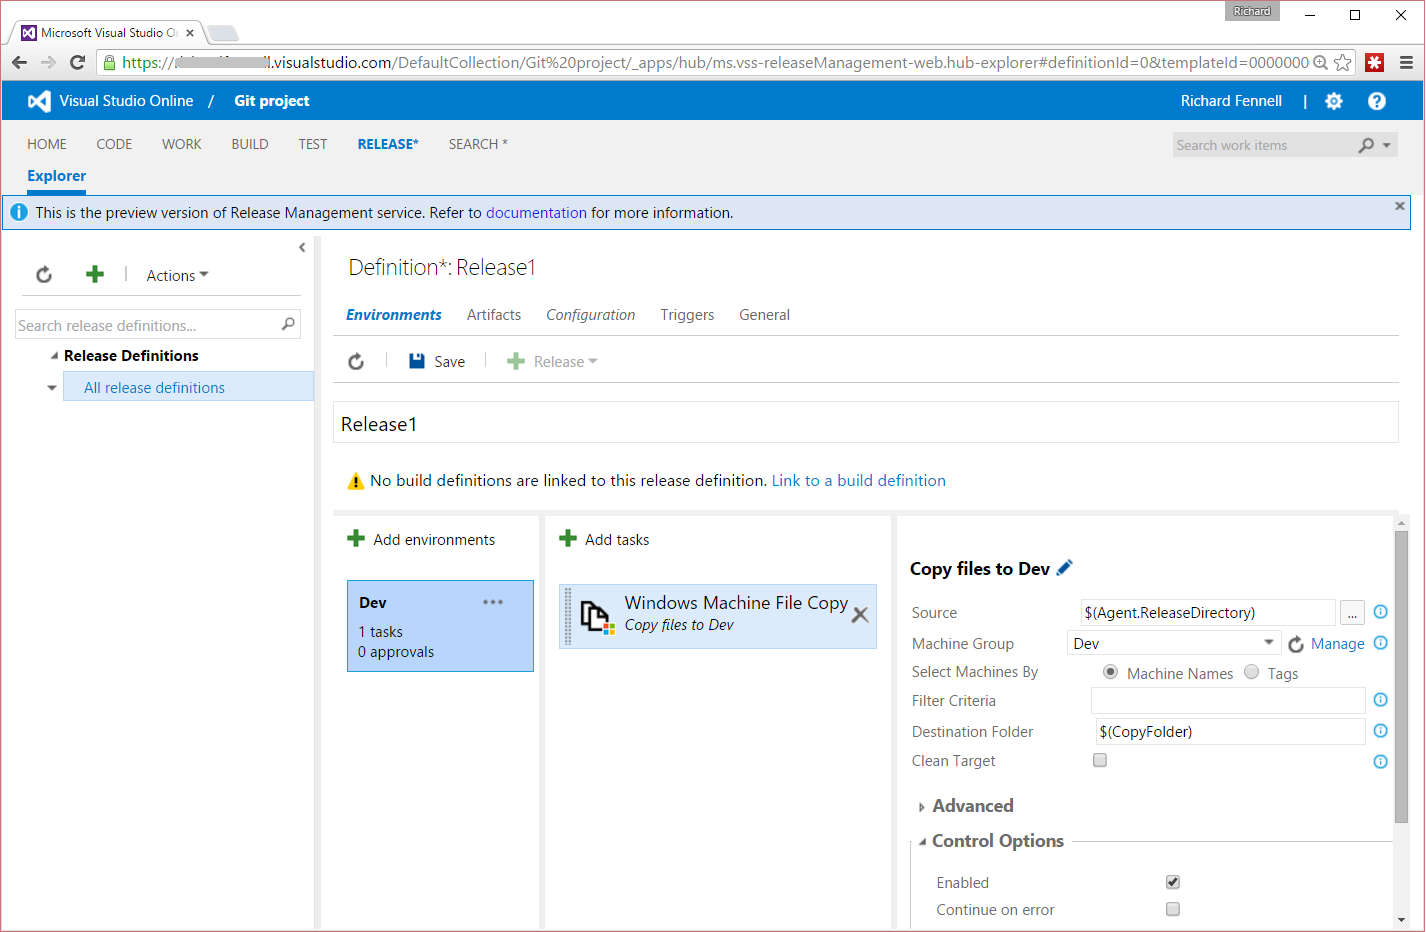
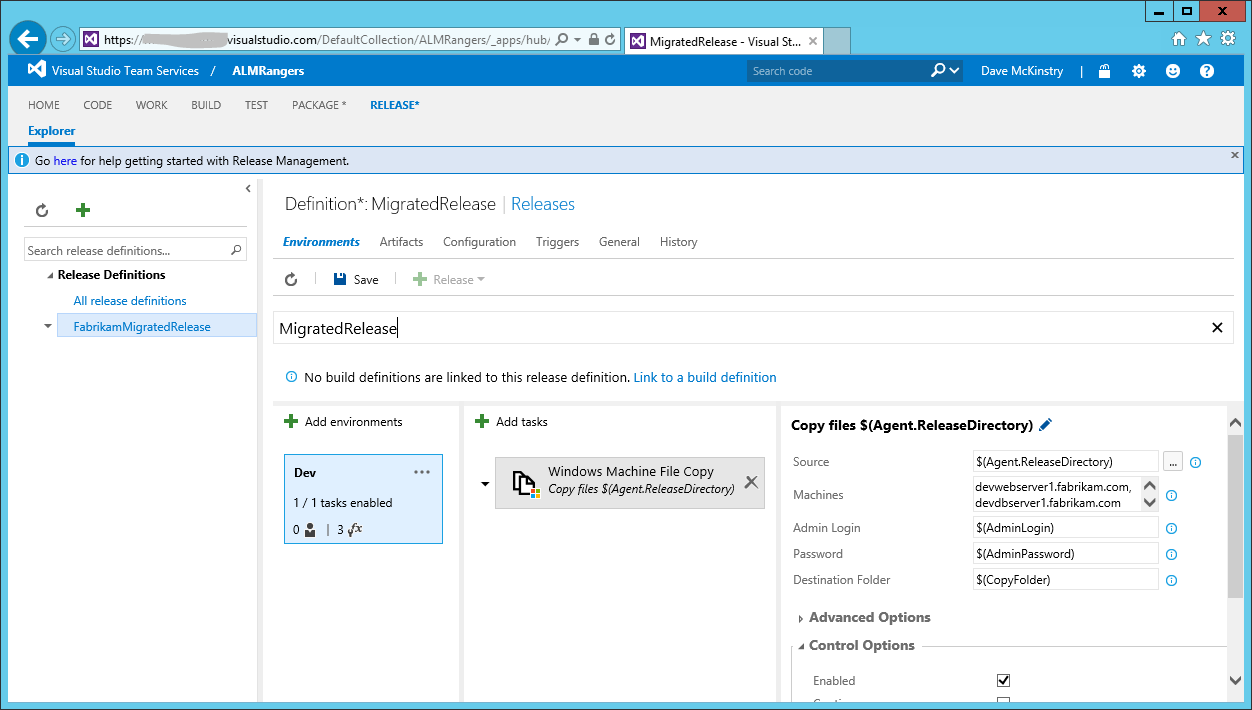
Updated Lab 2 screen caps and content based on current UI.  Primarily involved changing machine groups to machines.

Changed region(s): [[0.0, 0.0, 1.0, 1.0], [0.9034, 0.7746, 0.9345, 0.8056]]

diff --git a/doc/Lab-2-Using-the-resulting-release-scripts-in-a-release-pipeline.md b/doc/Lab-2-Using-the-resulting-release-scripts-in-a-release-pipeline.md
@@ -68,27 +68,27 @@ Once the script artifact, and any others you require for your product, have been
 
     ![Empty Release Definition Screenshot](Images/HOLScreenShot4.png)
 	
-1.	Set the new definitions name
+1.	Set the new release definition name
 1.  Click the **Default Environment** and rename it to your first stage e.g. to **Dev**
 1.  Press the ** Add Task** button and add the **Deploy** task **Windows Machine File Copy**. Set the following settings
 	- Set the **Source** to **$(Agent.ReleaseDirectory)**
-	- Click the manage button next to the **Machine Group**. A new tab will open, create a new machine group called **Dev** this should define the target VMs to deploy too.
-	- Once you have defined your machines, return to the browser window showing the Release Definitions. Press the refresh button next to the **Machine Group** combo and select the newly created **Dev** machine group
-	- Set the **Destination folder** to the target location on the VM e.g. a variable for the release called **$(CopyFolder)** which is created and initialized on the **Configuration** tab
+	- Set the **Machines** to a comma separated list of the machine IP addresses or fully qualified domain names (FQDN) of the machines that will receive the deployment.
+	- Set the **Admin Login** and **Password** with access to the machines in this environment.  You may wish to use environment variables to abstract the actual values (e.g., **$(AdminLogin)** and **$(AdminPassword)**).  Environment variables are per-environment and can be initialized from the elipsis button next to the environment name (e.g., "Dev").
+	- Set the **Destination folder** to the target location.  Again, consider using a release or environment variable such as **$(CopyFolder)**.
 	
     ![Release Definition With First Task Screenshot](Images/HOLScreenShot5.png)
 	
 1.  Press the **Add Task** button again and add the **Deploy** task '**PowerShell on Target Machines**'. This task needs to be configured to run the scripts the migration tool generated
-	- Set the **Machine Group** to **Dev**
+	- Configure the **Machines**, **Admin Login** and **Admin Password** the same as the previous task.
 	- Set the **PowerShell Script** to run your targeted script from the deployment location e.g. **$(CopyFolder)\Scripts\Dev\1_Server_VSALM\ReleaseScript.ps1**
-	- If you have chosen to store your initialisation script in source control, set the **Initialization Script** to **$(CopyFolder)\Scripts\Dev\1_Server_VSALM\InitializationScript.ps1**
+	- If you have chosen to store your initialization script in source control, set the **Initialization Script** to **$(CopyFolder)\Scripts\Dev\1_Server_VSALM\InitializationScript.ps1**
 	- If you have not, or plan to override some of the variable, then set the values for the variables in the initialization script in the Advanced pane's **Session Variables**  
 	
     ![Release Definition With Second Task Screenshot](Images/HOLScreenShot6.png)
 	
 1.  The initial **Dev** stage of the definition can now be saved.
-1.  This process of adding a task can be repeated call further exported PowerShell scripts within the same Stage to deploy to a other VMs.
-1.  Finally further environments and stages e.g: **QA** and **Prod** can be added, each with their own series and tasks and parameters.
+1.  This process of adding a task can be repeated to call further exported PowerShell scripts within the same Stage to deploy to a other VMs.
+1.  Finally further environments and stages e.g: **QA** and **Prod** can be added, each with their own series and tasks and parameters.  You can clone the original taskto simply deployments to other environments with similar deployment workflows.
 1.  The release pipeline can now be run.
 
 ## Summary 
